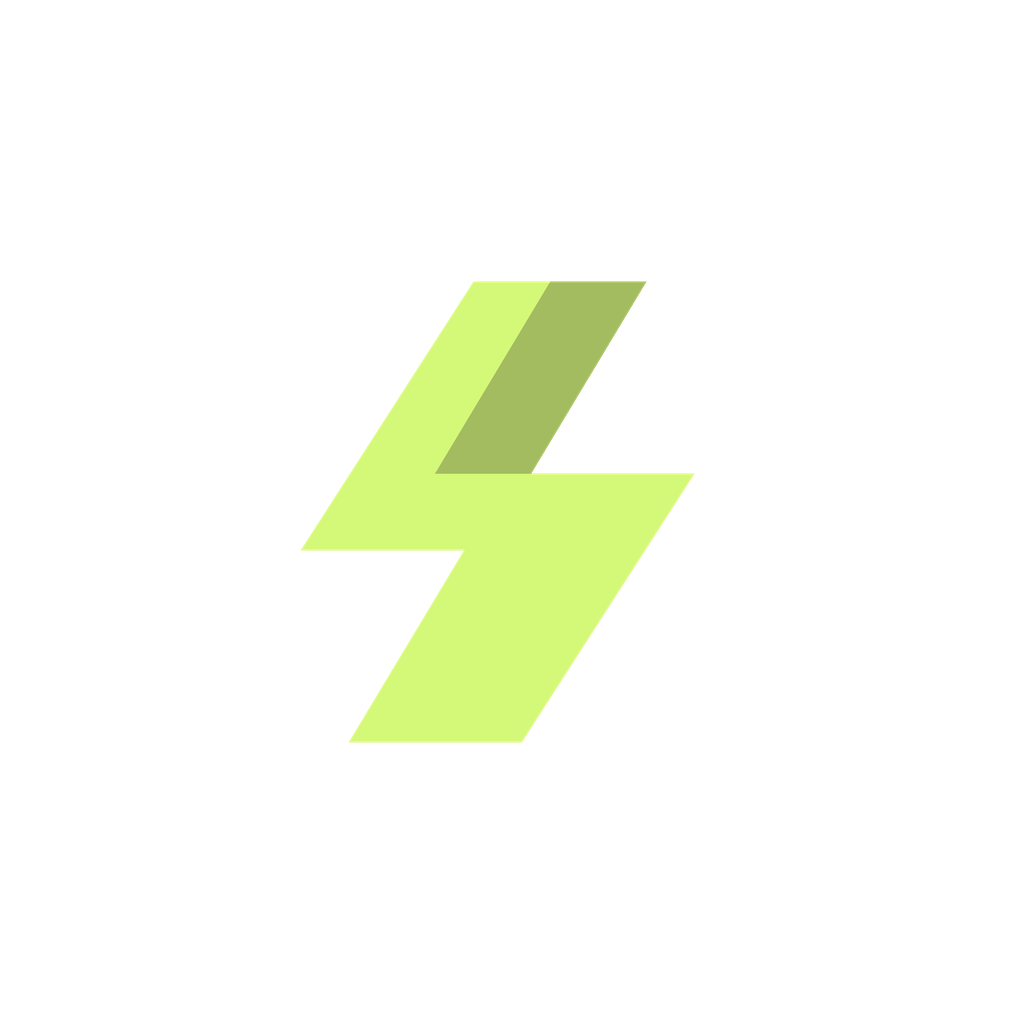
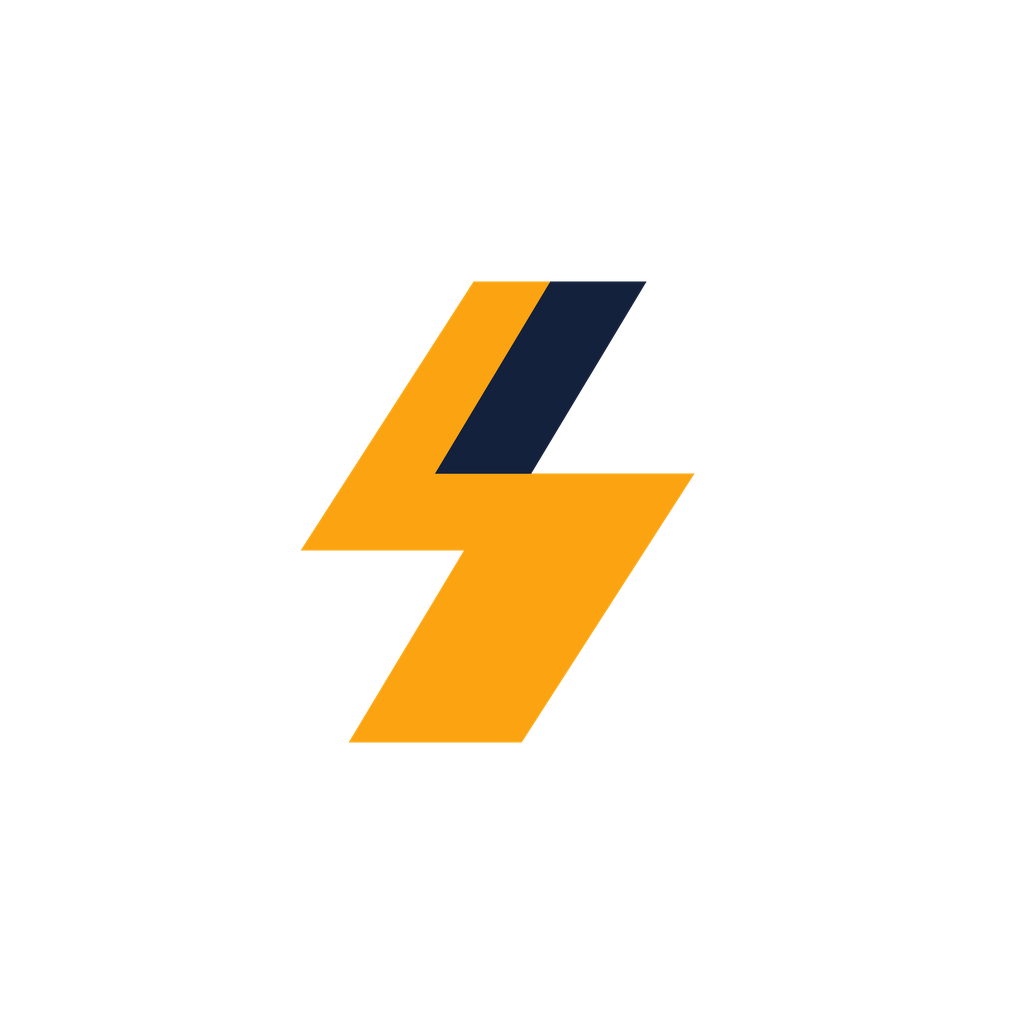
Apply Gold Night identity and add persistent AI coach access

Changed region(s): [[0.2812, 0.25, 0.6875, 0.75]]

diff --git a/src/app/(tabs)/index.tsx b/src/app/(tabs)/index.tsx
@@ -38,37 +38,37 @@ export default function Today() {
   const todayPlan = auth.plan?.days[(now.getDay() + 6) % 7];
   const firstName = store.profile.name.trim().split(' ')[0];
   const recent = [
-    ...meals.map((item) => ({ id: item.id, time: item.time, title: item.name, detail: `${Math.round(item.calories)} kcal · ${Math.round(item.protein)} g protein`, icon: 'meal' as const, color: theme.orange })),
+    ...meals.map((item) => ({ id: item.id, time: item.time, title: item.name, detail: `${Math.round(item.calories)} kcal · ${Math.round(item.protein)} g protein`, icon: 'meal' as const, color: theme.nutrition })),
     ...workouts.map((item) => ({ id: item.id, time: item.time, title: item.name, detail: `${item.minutes} min training`, icon: 'workout' as const, color: theme.accent })),
   ].sort((a, b) => (b.time || '').localeCompare(a.time || '')).slice(0, 3);
 
   return <Page>
     <Title eyebrow={now.toLocaleDateString(undefined, { weekday: 'long', month: 'short', day: 'numeric' })} subtitle="Small steps. Stronger every day.">{firstName ? `Let's move, ${firstName}.` : 'Make today count.'}</Title>
     <Card style={{ backgroundColor: theme.hero, borderColor: theme.heroLine, padding: 22 }}>
-      <LinearGradient pointerEvents="none" colors={['rgba(212,248,120,0.09)', 'transparent']} start={{ x: 1, y: 0 }} end={{ x: 0, y: 1 }} style={StyleSheet.absoluteFill} />
+      <LinearGradient pointerEvents="none" colors={[theme.heroGlow, 'transparent']} start={{ x: 1, y: 0 }} end={{ x: 0, y: 1 }} style={StyleSheet.absoluteFill} />
       <Row><Text style={[ui.eyebrow, { flex: 1 }]}>TODAY’S FOCUS</Text><View style={s.pill}><Text style={s.pillText}>{todayPlan?.isRest ? 'RECOVERY' : 'TRAINING'}</Text></View></Row>
       <Row><View style={{ flex: 1, gap: 8 }}><Text style={s.workoutTitle}>{todayPlan?.title || 'Find your next move'}</Text><Text style={ui.muted}>{todayPlan ? `${todayPlan.minutes} min · ${todayPlan.focus}` : 'A personal plan, built around you.'}</Text></View><View style={s.workoutIcon}><Icon name="workout" color={theme.accent} size={34} /></View></Row>
       <MotionPressable onPress={() => router.push('/(tabs)/plan')} style={s.primary}><Row><Text style={s.primaryText}>{todayPlan ? 'View today’s session' : 'Explore your plan'}</Text><Icon name="arrow" color={theme.ink} size={18} /></Row></MotionPressable>
     </Card>
 
     <View style={{ gap: 12 }}><Row><Text style={s.section}>Quick check-in</Text><Text style={[ui.muted, { fontSize: 11 }]}>MAKE IT A HABIT</Text></Row>
-      <View style={{ flexDirection: 'row', gap: 9 }}>{([{ mode: 'meal', label: 'Meal', icon: 'meal', color: theme.orange }, { mode: 'workout', label: 'Workout', icon: 'workout', color: theme.accent }, { mode: 'water', label: 'Water', icon: 'water', color: theme.blue }, { mode: 'weight', label: 'Weight', icon: 'weight', color: theme.purple }] as const).map((item) => <MotionPressable key={item.mode} onPress={() => log(item.mode)} style={{ flex: 1, minHeight: 78, borderRadius: 18, backgroundColor: theme.card, borderWidth: 1, borderColor: theme.line }}><Icon name={item.icon} color={item.color} size={22} /><Text style={{ color: theme.text, fontSize: 11, fontWeight: '700', marginTop: 9 }}>{item.label}</Text></MotionPressable>)}</View>
+      <View style={{ flexDirection: 'row', flexWrap: 'wrap', gap: 8 }}>{([{ mode: 'meal', label: 'Meal', icon: 'meal', color: theme.nutrition }, { mode: 'workout', label: 'Workout', icon: 'workout', color: theme.accent }, { mode: 'water', label: 'Water', icon: 'water', color: theme.hydration }, { mode: 'weight', label: 'Weight', icon: 'weight', color: theme.secondary }, { mode: 'steps', label: 'Steps', icon: 'steps', color: theme.accent }] as const).map((item) => <MotionPressable key={item.mode} onPress={() => log(item.mode)} style={{ flex: 1, minWidth: 48, minHeight: 78, borderRadius: 18, backgroundColor: theme.card, borderWidth: 1, borderColor: theme.line }}><Icon name={item.icon} color={item.color} size={22} /><Text style={{ color: theme.text, fontSize: 11, fontWeight: '700', marginTop: 9 }}>{item.label}</Text></MotionPressable>)}</View>
     </View>
 
     <Row><Text style={s.section}>Daily balance</Text><Text style={[ui.muted, { fontSize: 11 }]}>{meals.length} meals logged</Text></Row>
     <Card><Row><View style={{ flex: 1, gap: 5 }}><Text style={ui.label}>ENERGY INTAKE</Text><Text style={{ color: theme.text, fontSize: 34, fontFamily: theme.font, letterSpacing: -2 }}>{Math.round(calories).toLocaleString()}</Text><Text style={{ color: theme.muted, fontSize: 12 }}>kcal{targets ? ` / ${targets.calories.toLocaleString()} guide` : ' today'}</Text><Text style={{ color: theme.accent, fontSize: 12, lineHeight: 18, marginTop: 6 }}>{targets ? calories > targets.calories ? `${Math.round(calories - targets.calories).toLocaleString()} kcal above guide` : `${Math.round(targets.calories - calories).toLocaleString()} kcal to guide` : 'Personal guide not set'}</Text></View><Orbit size={112} value={calories} max={targets?.calories || 0} /></Row><Text style={[ui.muted, { fontSize: 11 }]}>An intake guide, not a measured energy deficit.</Text></Card>
     <View style={{ flexDirection: 'row', flexWrap: 'wrap', gap: 12 }}>
-      <Metric icon="protein" label="Protein" value={`${Math.round(protein)} g`} guide={targets ? `of ${targets.protein} g guide` : 'No personal guide'} fraction={targets ? protein / targets.protein : 0} color={theme.orange} onPress={() => log('meal')} />
-      <Metric icon="water" label="Hydration" value={`${(water / 1000).toFixed(1)} L`} guide={targets ? `of ${(targets.water / 1000).toFixed(1)} L drinks guide` : 'No personal guide'} fraction={targets ? water / targets.water : 0} color={theme.blue} onPress={() => log('water')} />
-      <Metric icon="steps" label="Steps" value={steps.toLocaleString()} guide={auth.plan?.stepsTarget ? `of ${auth.plan.stepsTarget.toLocaleString()} daily guide` : 'Manually logged'} fraction={auth.plan?.stepsTarget ? steps / auth.plan.stepsTarget : 0} color={theme.purple} onPress={() => log('steps')} />
+      <Metric icon="protein" label="Protein" value={`${Math.round(protein)} g`} guide={targets ? `of ${targets.protein} g guide` : 'No personal guide'} fraction={targets ? protein / targets.protein : 0} color={theme.nutrition} onPress={() => log('meal')} />
+      <Metric icon="water" label="Hydration" value={`${(water / 1000).toFixed(1)} L`} guide={targets ? `of ${(targets.water / 1000).toFixed(1)} L drinks guide` : 'No personal guide'} fraction={targets ? water / targets.water : 0} color={theme.hydration} onPress={() => log('water')} />
+      <Metric icon="steps" label="Steps" value={steps.toLocaleString()} guide={auth.plan?.stepsTarget ? `of ${auth.plan.stepsTarget.toLocaleString()} daily guide` : 'Manually logged'} fraction={auth.plan?.stepsTarget ? steps / auth.plan.stepsTarget : 0} color={theme.secondary} onPress={() => log('steps')} />
       <Metric icon="workout" label="Training" value={`${minutes} min`} guide={`${workouts.length} sessions logged today`} fraction={todayPlan?.minutes ? minutes / todayPlan.minutes : 0} color={theme.accent} onPress={() => log('workout')} />
     </View>
-    <MotionPressable onPress={() => store.addWater(date, 250)} style={{ minHeight: 44, borderRadius: 14, borderWidth: 1, borderColor: theme.line }}><Row><Icon name="water" color={theme.blue} size={17} /><Text style={{ color: theme.blue, fontSize: 13, fontWeight: '700' }}>Quick add · 250 ml water</Text></Row></MotionPressable>
+    <MotionPressable onPress={() => store.addWater(date, 250)} style={{ minHeight: 44, borderRadius: 14, borderWidth: 1, borderColor: theme.line }}><Row><Icon name="water" color={theme.hydration} size={17} /><Text style={{ color: theme.hydration, fontSize: 13, fontWeight: '700' }}>Quick add · 250 ml water</Text></Row></MotionPressable>
 
-    <MotionPressable onPress={() => router.push('/chat')} style={{ width: '100%' }}><Card style={{ width: '100%' }}><Row><View style={s.coachIcon}><Icon name="sparkles" color={theme.purple} size={23} /></View><View style={{ flex: 1, gap: 4 }}><Text style={{ color: theme.text, fontSize: 17, fontFamily: theme.font }}>A little guidance goes far.</Text><Text style={ui.muted}>Talk meals, training & goals with your AI coach.</Text></View><Icon name="arrow" color={theme.muted} size={17} /></Row></Card></MotionPressable>
+    <MotionPressable onPress={() => router.push('/chat')} style={{ width: '100%' }}><Card style={{ width: '100%' }}><Row><View style={s.coachIcon}><Icon name="sparkles" color={theme.secondary} size={23} /></View><View style={{ flex: 1, gap: 4 }}><Text style={{ color: theme.text, fontSize: 17, fontFamily: theme.font }}>A little guidance goes far.</Text><Text style={ui.muted}>Talk meals, training & goals with your AI coach.</Text></View><Icon name="arrow" color={theme.muted} size={17} /></Row></Card></MotionPressable>
     <Row><Text style={s.section}>Today’s activity</Text><Pressable accessibilityRole="button" onPress={() => router.push({ pathname: '/(tabs)/history', params: { view: 'history' } })} style={{ minHeight: 44, justifyContent: 'center' }}><Text style={{ color: theme.accent, fontSize: 12, fontWeight: '700' }}>See history ↗</Text></Pressable></Row>
     <Card>{recent.length ? recent.map((item) => <Row key={item.id}><View style={{ width: 38, height: 38, borderRadius: 12, backgroundColor: `${item.color}16`, alignItems: 'center', justifyContent: 'center' }}><Icon name={item.icon} color={item.color} size={18} /></View><View style={{ flex: 1, gap: 3 }}><Text style={{ color: theme.text, fontSize: 14, fontWeight: '700' }}>{item.title}</Text><Text style={[ui.muted, { fontSize: 11 }]}>{item.detail}</Text></View></Row>) : <><Text style={{ color: theme.text, fontSize: 15, fontWeight: '700' }}>A fresh page for today.</Text><Text style={ui.muted}>Your meals and workouts will show up here as you log them. Start with a quick check-in above.</Text></>}</Card>
-    {meals.length > 0 && <Card><Text style={s.section}>Macro breakdown</Text>{([['Carbs', 'carbs', theme.blue], ['Fat', 'fat', theme.purple], ['Fibre', 'fibre', theme.accent], ['Sugar', 'sugar', theme.orange]] as const).map(([label, key, color]) => <Row key={key}><View style={{ width: 7, height: 7, borderRadius: 4, backgroundColor: color }} /><Text style={[ui.muted, { flex: 1 }]}>{label}</Text><Text style={{ color: theme.text, fontWeight: '700' }}>{Math.round(sum(meals, key))} g</Text></Row>)}</Card>}
+    {meals.length > 0 && <Card><Text style={s.section}>Macro breakdown</Text>{([['Carbs', 'carbs', theme.hydration], ['Fat', 'fat', theme.secondary], ['Fibre', 'fibre', theme.accent], ['Sugar', 'sugar', theme.nutrition]] as const).map(([label, key, color]) => <Row key={key}><View style={{ width: 7, height: 7, borderRadius: 4, backgroundColor: color }} /><Text style={[ui.muted, { flex: 1 }]}>{label}</Text><Text style={{ color: theme.text, fontWeight: '700' }}>{Math.round(sum(meals, key))} g</Text></Row>)}</Card>}
   </Page>;
 }
 const s = StyleSheet.create({
@@ -79,5 +79,5 @@ const s = StyleSheet.create({
   workoutIcon: { width: 70, height: 70, borderRadius: 22, backgroundColor: theme.accentSoft, alignItems: 'center', justifyContent: 'center', transform: [{ rotate: '-12deg' }] },
   primary: { minHeight: 52, borderRadius: 16, backgroundColor: theme.accent, marginTop: 6 },
   primaryText: { color: theme.ink, fontFamily: theme.font, fontSize: 14 },
-  coachIcon: { width: 44, height: 44, borderRadius: 15, backgroundColor: 'rgba(183,164,247,0.10)', alignItems: 'center', justifyContent: 'center' },
+  coachIcon: { width: 44, height: 44, borderRadius: 15, backgroundColor: theme.accentSoft, alignItems: 'center', justifyContent: 'center' },
 });

diff --git a/src/app/(tabs)/plan.tsx b/src/app/(tabs)/plan.tsx
@@ -31,7 +31,7 @@ export default function Plan() {
       </View>
       {plan.days.map((day, index) => <Card key={day.day} style={index === todayIndex ? { borderColor: theme.heroLine } : undefined}>
         <Pressable accessibilityRole="button" accessibilityState={{ expanded: openDay === index }} onPress={() => setOpenDay(openDay === index ? null : index)} style={{ minHeight: 54 }}><Row>
-          <View style={{ width: 43, height: 43, borderRadius: 14, backgroundColor: day.isRest ? 'rgba(128,201,245,0.10)' : theme.accentSoft, alignItems: 'center', justifyContent: 'center' }}><Icon name={day.isRest ? 'water' : 'workout'} color={day.isRest ? theme.blue : theme.accent} size={21} /></View>
+          <View style={{ width: 43, height: 43, borderRadius: 14, backgroundColor: day.isRest ? theme.cardAlt : theme.accentSoft, alignItems: 'center', justifyContent: 'center' }}><Icon name={day.isRest ? 'water' : 'workout'} color={day.isRest ? theme.hydration : theme.accent} size={21} /></View>
           <View style={{ flex: 1, gap: 4 }}><Text style={{ color: index === todayIndex ? theme.accent : theme.muted, fontSize: 10, fontFamily: theme.font, letterSpacing: .8 }}>{day.day.toUpperCase()}{index === todayIndex ? ' / TODAY' : ''} · {day.isRest ? 'RECOVERY' : `${day.minutes} MIN`}</Text><Text style={{ color: theme.text, fontSize: 17, fontFamily: theme.font }}>{day.title}</Text></View><Text style={{ color: theme.muted, fontSize: 22 }}>{openDay === index ? '−' : '+'}</Text>
         </Row></Pressable>
         {openDay === index ? <View style={{ gap: 13, paddingTop: 12, borderTopWidth: 1, borderColor: theme.line }}><Text style={ui.muted}>{day.focus}</Text>{day.activities.map((activity, activityIndex) => <Row key={`${day.day}-${activityIndex}`}><Text style={{ color: theme.accent, fontSize: 11, fontFamily: theme.font, width: 22 }}>{String(activityIndex + 1).padStart(2, '0')}</Text><Text style={[ui.muted, { flex: 1, color: theme.text }]}>{activity}</Text></Row>)}<Button secondary onPress={() => router.push({ pathname: '/(tabs)/log', params: { mode: 'workout', entry: String(Date.now()) } })}>Log a completed session</Button></View> : null}
@@ -40,7 +40,7 @@ export default function Plan() {
         {plan.calorieTarget ? <><View style={{ flexDirection: 'row', flexWrap: 'wrap', gap: 10 }}>{[[plan.calorieTarget.toLocaleString(), 'kcal intake'], [plan.proteinGrams, 'g protein'], [(plan.waterMl / 1000).toFixed(1), 'L drinks'], [plan.stepsTarget.toLocaleString(), 'steps']].map(([value, label]) => <View key={label} style={{ width: '47%', flexGrow: 1, padding: 14, borderRadius: 16, backgroundColor: theme.cardAlt }}><Text style={{ color: theme.text, fontSize: 23, fontFamily: theme.font }}>{value}</Text><Text style={ui.muted}>{label}</Text></View>)}</View><Text style={ui.muted}>Estimated maintenance {plan.maintenanceCalories.toLocaleString()} kcal · planned deficit {plan.deficitCalories.toLocaleString()} kcal</Text></> : <Text style={ui.muted}>Personal calorie and drink goals are paused for this profile. Steps starting point: {plan.stepsTarget.toLocaleString()} per day.</Text>}
       </Disclosure>
       <Disclosure title="The thinking behind your plan" subtitle="Recommendations & adjustments"><Text style={ui.muted}>{plan.guidanceNote}</Text><Text style={ui.muted}>{plan.requestedDays} training days requested · {plan.recommendedDays} recommended</Text><Text style={ui.muted}>{plan.suggestions}</Text></Disclosure>
-      <Card><Row><Icon name="sparkles" color={theme.purple} /><Text style={{ color: theme.text, fontSize: 18, fontFamily: theme.font }}>Make it work for you.</Text></Row><Text style={ui.muted}>Schedule changed? Talk it through with your coach, then review and approve a revised plan.</Text><Button secondary onPress={() => router.push('/chat')}>Talk to your AI coach</Button></Card>
+      <Card><Row><Icon name="sparkles" color={theme.secondary} /><Text style={{ color: theme.text, fontSize: 18, fontFamily: theme.font }}>Make it work for you.</Text></Row><Text style={ui.muted}>Schedule changed? Talk it through with your coach, then review and approve a revised plan.</Text><Button secondary onPress={() => router.push('/chat')}>Talk to your AI coach</Button></Card>
     </> : <Card><Icon name="plan" color={theme.accent} size={32} /><Text style={{ color: theme.text, fontSize: 20, fontFamily: theme.font }}>A plan with your name on it.</Text><Text style={ui.muted}>Generate a weekly plan from your saved profile and training preferences.</Text>{error ? <Text accessibilityRole="alert" style={{ color: theme.red }}>{error}</Text> : null}<Button disabled={generating} onPress={() => { setGenerating(true); setError(''); auth.revisePlan([{ role: 'user', content: 'Create a practical weekly plan from my saved profile and preferences.' }]).catch((cause) => setError(cause instanceof Error ? cause.message : 'Could not generate a plan.')).finally(() => setGenerating(false)); }}>{generating ? 'Building your plan…' : 'Generate my plan'}</Button></Card>}
   </Page>;
 }

diff --git a/src/app/(tabs)/_layout.tsx b/src/app/(tabs)/_layout.tsx
@@ -1,6 +1,6 @@
-import { Tabs } from 'expo-router';
+import { router, Tabs } from 'expo-router';
 import { useEffect, useState } from 'react';
-import { Animated, ColorValue } from 'react-native';
+import { Animated, ColorValue, Keyboard, Pressable, Text, View } from 'react-native';
 import { useSafeAreaInsets } from 'react-native-safe-area-context';
 import { Icon } from '@/components/UI';
 import { theme } from '@/lib/theme';
@@ -22,7 +22,13 @@ function TabIcon({ name, color, focused }: { name: 'home' | 'log' | 'plan' | 'pr
 export default function TabLayout() {
   const insets = useSafeAreaInsets();
   const reduced = useReduceMotion();
-  return <Tabs screenOptions={{
+  const [keyboardOpen, setKeyboardOpen] = useState(false);
+  useEffect(() => {
+    const show = Keyboard.addListener('keyboardDidShow', () => setKeyboardOpen(true));
+    const hide = Keyboard.addListener('keyboardDidHide', () => setKeyboardOpen(false));
+    return () => { show.remove(); hide.remove(); };
+  }, []);
+  return <View style={{ flex: 1 }}><Tabs screenOptions={{
     headerShown: false,
     animation: reduced === false ? 'shift' : 'none',
     transitionSpec: { animation: 'timing', config: { duration: 230 } },
@@ -33,7 +39,7 @@ export default function TabLayout() {
     tabBarStyle: {
       position: 'absolute', left: 12, right: 12, bottom: Math.max(insets.bottom, 8),
       height: 72, paddingTop: 6, paddingBottom: 5, borderRadius: 26,
-      backgroundColor: 'rgba(22,25,29,0.98)', borderWidth: 1, borderTopWidth: 1,
+      backgroundColor: theme.navigation, borderWidth: 1, borderTopWidth: 1,
       borderColor: theme.line, elevation: 12,
       shadowColor: '#000', shadowOpacity: 0.28, shadowRadius: 18, shadowOffset: { width: 0, height: 8 },
     },
@@ -45,5 +51,10 @@ export default function TabLayout() {
     <Tabs.Screen name="log" options={{ title: 'Log', tabBarIcon: ({ color, focused }) => <TabIcon name="log" color={color} focused={focused} /> }} />
     <Tabs.Screen name="history" options={{ title: 'Progress', tabBarIcon: ({ color, focused }) => <TabIcon name="progress" color={color} focused={focused} /> }} />
     <Tabs.Screen name="profile" options={{ title: 'Profile', tabBarIcon: ({ color, focused }) => <TabIcon name="you" color={color} focused={focused} /> }} />
-  </Tabs>;
+  </Tabs>
+    {!keyboardOpen ? <Pressable accessibilityRole="button" accessibilityLabel="Open AI coach chat" accessibilityHint="Talk about your training, nutrition, and goals" onPress={() => router.navigate('/chat')}
+      style={({ pressed }) => ({ position: 'absolute', right: 22, bottom: Math.max(insets.bottom, 8) + 88, minHeight: 48, paddingHorizontal: 18, paddingVertical: 12, borderRadius: 24, flexDirection: 'row', alignItems: 'center', gap: 9, backgroundColor: theme.accent, borderWidth: 1, borderColor: theme.heroLine, elevation: 8, shadowColor: '#000', shadowOpacity: .3, shadowRadius: 12, shadowOffset: { width: 0, height: 4 }, opacity: pressed ? .8 : 1 })}>
+      <Icon name="chat" color={theme.ink} size={21} /><Text style={{ color: theme.ink, fontFamily: theme.font, fontSize: 14 }}>AI Coach</Text>
+    </Pressable> : null}
+  </View>;
 }

diff --git a/src/app/(tabs)/history.tsx b/src/app/(tabs)/history.tsx
@@ -59,12 +59,12 @@ function HistoryContent({ initialDate, initialView }: { initialDate: string; ini
     <View style={{ gap: 8 }}>
       <Text style={{ color: theme.text, fontSize: 18, fontFamily: theme.font }}>Recent days</Text>
       <ScrollView horizontal showsHorizontalScrollIndicator={false} contentContainerStyle={{ gap: 8, paddingBottom: 4 }}>
-        {dates.slice(0, 14).map((date) => <Pressable key={date} onPress={() => setSelected(date)} accessibilityRole="button" accessibilityState={{ selected: date === selected }} style={{ minHeight: 44, justifyContent: 'center', borderRadius: 12, paddingHorizontal: 12, paddingVertical: 10, borderWidth: 1, borderColor: date === selected ? theme.accent : theme.line, backgroundColor: date === selected ? 'rgba(212,248,120,0.16)' : theme.card }}><Text style={{ color: date === selected ? theme.accent : theme.text, fontWeight: '700' }}>{date === today() ? 'Today' : new Date(`${date}T12:00:00`).toLocaleDateString(undefined, { month: 'short', day: 'numeric' })}</Text></Pressable>)}
+        {dates.slice(0, 14).map((date) => <Pressable key={date} onPress={() => setSelected(date)} accessibilityRole="button" accessibilityState={{ selected: date === selected }} style={{ minHeight: 44, justifyContent: 'center', borderRadius: 12, paddingHorizontal: 12, paddingVertical: 10, borderWidth: 1, borderColor: date === selected ? theme.accent : theme.line, backgroundColor: date === selected ? 'rgba(252,163,17,0.16)' : theme.card }}><Text style={{ color: date === selected ? theme.accent : theme.text, fontWeight: '700' }}>{date === today() ? 'Today' : new Date(`${date}T12:00:00`).toLocaleDateString(undefined, { month: 'short', day: 'numeric' })}</Text></Pressable>)}
       </ScrollView>
     </View>
     <Card><Text style={{ color: theme.text, fontFamily: theme.font }}>Jump to any day</Text><DaySelector value={selected} onChange={setSelected} /><Button onPress={() => router.push({ pathname: '/(tabs)/log', params: { date: selected, entry: String(Date.now()) } })}>Add an entry for {selected}</Button></Card>
     <Text style={{ color: theme.text, fontSize: 21, fontFamily: theme.font }}>{displayDate(selected)}</Text>
-    <Card style={{ backgroundColor: theme.hero, borderColor: 'rgba(212,248,120,0.3)' }}><Text style={{ color: theme.accent, fontSize: 11, letterSpacing: 1, fontFamily: theme.font }}>DAY SUMMARY</Text>
+    <Card style={{ backgroundColor: theme.hero, borderColor: 'rgba(252,163,17,0.3)' }}><Text style={{ color: theme.accent, fontSize: 11, letterSpacing: 1, fontFamily: theme.font }}>DAY SUMMARY</Text>
       <Text style={{ color: theme.text, fontSize: 23, fontFamily: theme.font }}>{number(total('calories'))} kcal consumed</Text>
       <Text style={ui.muted}>{targets ? `${number(Math.abs(targets.calories - total('calories')))} kcal ${total('calories') <= targets.calories ? 'below' : 'above'} your ${number(targets.calories)} kcal guide` : 'No calorie guide available for this day.'}</Text>
       <Text style={ui.muted}>Protein {number(total('protein'))} g · Carbs {number(total('carbs'))} g · Fat {number(total('fat'))} g</Text>

diff --git a/src/app/(tabs)/log.tsx b/src/app/(tabs)/log.tsx
@@ -111,11 +111,11 @@ export default function Log() {
         <View style={{ flexDirection: 'row', flexWrap: 'wrap', gap: 7 }}>
           {(['breakfast', 'lunch', 'dinner', 'snack'] as const).map((type) =>
             <MotionPressable key={type} onPress={() => { setMealType(type); setEstimate(null); }} accessibilityState={{ selected: mealType === type }}
-              style={{ paddingHorizontal: 12, paddingVertical: 9, borderRadius: 11, backgroundColor: mealType === type ? 'rgba(212,248,120,0.17)' : theme.cardAlt, borderWidth: 1, borderColor: mealType === type ? 'rgba(212,248,120,0.55)' : theme.line }}>
+              style={{ paddingHorizontal: 12, paddingVertical: 9, borderRadius: 11, backgroundColor: mealType === type ? 'rgba(252,163,17,0.17)' : theme.cardAlt, borderWidth: 1, borderColor: mealType === type ? 'rgba(252,163,17,0.55)' : theme.line }}>
               <Text style={{ color: mealType === type ? theme.accent : theme.text, fontFamily: theme.font, fontSize: 11, textTransform: 'capitalize' }}>{type}</Text>
             </MotionPressable>)}
         </View>
-        {existing && <Text style={{ color: theme.orange, fontSize: 12 }}>Saving another {mealType} for {date} will replace the current entry. Snacks can be added more than once.</Text>}
+        {existing && <Text style={{ color: theme.nutrition, fontSize: 12 }}>Saving another {mealType} for {date} will replace the current entry. Snacks can be added more than once.</Text>}
         <Label>TIME</Label><MealTimePicker value={mealTime} onChange={setMealTime} />
         <Label>FOOD AND PORTION</Label>
         <Input value={description} onChangeText={(value) => { setDescription(value); setEstimate(null); }} multiline placeholder="e.g. 2 chapatis (80 g), dal (150 g), paneer (100 g), oil (1 tsp)" style={{ minHeight: 94, textAlignVertical: 'top' }} />
@@ -126,7 +126,7 @@ export default function Log() {
       </Card>
       <Button onPress={analyze} disabled={estimating}>{estimating ? 'Estimating…' : estimate ? 'Estimate again' : 'Estimate nutrition with AI'}</Button>
       {error ? <Reveal><Card><Text style={{ color: theme.red }}>{error}</Text></Card></Reveal> : null}
-      {estimate && <Reveal><Card style={{ backgroundColor: theme.hero, borderColor: 'rgba(212,248,120,0.3)' }}>
+      {estimate && <Reveal><Card style={{ backgroundColor: theme.hero, borderColor: 'rgba(252,163,17,0.3)' }}>
         <Row><Icon name="sparkles" color={theme.accent} size={19} /><Text style={{ color: theme.accent, fontFamily: theme.font, fontSize: 10, letterSpacing: 1 }}>AI ESTIMATE · REVIEW BEFORE SAVING</Text></Row>
         <Text style={{ color: theme.text, fontSize: 20, fontFamily: theme.font }}>{estimate.name}</Text>
         <Text style={{ color: theme.text, fontSize: 27, fontFamily: theme.font }}>~{Math.round(estimate.calories)} kcal</Text>

diff --git a/components/WelcomeVisual.tsx b/components/WelcomeVisual.tsx
@@ -11,12 +11,12 @@ export function WelcomeVisual() {
       <Circle cx={170} cy={100} r={42} fill={theme.accentSoft} />
       <Path d="M80 100A90 90 0 0 1 228 31" stroke={theme.accent} strokeWidth={2} strokeLinecap="round" fill="none" />
       <Circle cx={228} cy={31} r={4} fill={theme.accent} />
-      <Circle cx={109} cy={166} r={4} fill={theme.blue} />
+      <Circle cx={109} cy={166} r={4} fill={theme.hydration} />
       <Line x1={10} x2={85} y1={100} y2={100} stroke={theme.line} />
       <Line x1={255} x2={330} y1={100} y2={100} stroke={theme.line} />
     </Svg>
     <BrandMark size={57} />
-    <View style={{ position: 'absolute', left: 0, top: 35, borderRadius: 12, padding: 11, backgroundColor: '#1B2022', borderWidth: 1, borderColor: theme.line }}><Text style={{ color: theme.accent, fontSize: 9, fontFamily: theme.font, letterSpacing: 1 }}>TRAIN WITH PURPOSE</Text><Text style={{ color: theme.text, fontSize: 13, fontWeight: '700', marginTop: 4 }}>Your plan. Your pace.</Text></View>
-    <View style={{ position: 'absolute', right: 0, bottom: 26, borderRadius: 12, padding: 11, backgroundColor: '#1B2022', borderWidth: 1, borderColor: theme.line }}><Text style={{ color: theme.blue, fontSize: 9, fontFamily: theme.font, letterSpacing: 1 }}>SEE YOUR PROGRESS</Text><Text style={{ color: theme.text, fontSize: 13, fontWeight: '700', marginTop: 4 }}>Every check-in counts.</Text></View>
+    <View style={{ position: 'absolute', left: 0, top: 35, borderRadius: 12, padding: 11, backgroundColor: theme.surface, borderWidth: 1, borderColor: theme.line }}><Text style={{ color: theme.accent, fontSize: 9, fontFamily: theme.font, letterSpacing: 1 }}>TRAIN WITH PURPOSE</Text><Text style={{ color: theme.text, fontSize: 13, fontWeight: '700', marginTop: 4 }}>Your plan. Your pace.</Text></View>
+    <View style={{ position: 'absolute', right: 0, bottom: 26, borderRadius: 12, padding: 11, backgroundColor: theme.surface, borderWidth: 1, borderColor: theme.line }}><Text style={{ color: theme.hydration, fontSize: 9, fontFamily: theme.font, letterSpacing: 1 }}>SEE YOUR PROGRESS</Text><Text style={{ color: theme.text, fontSize: 13, fontWeight: '700', marginTop: 4 }}>Every check-in counts.</Text></View>
   </View>;
 }

diff --git a/components/ProgressHub.tsx b/components/ProgressHub.tsx
@@ -27,6 +27,6 @@ export default function ProgressHub({ logs, today }: { logs: Logs; today: string
     </Card>
     <Row>{[[sessions, 'Sessions / 7D'], [minutes, 'Minutes / 7D'], [delta === null ? '—' : `${delta > 0 ? '+' : ''}${delta.toFixed(1)}`, 'kg change / 30D']].map(([value, label]) => <Card key={label} style={{ flex: 1, padding: 13, gap: 6 }}><Text style={{ color: theme.text, fontSize: 25, fontFamily: theme.font }}>{value}</Text><Text style={{ color: theme.muted, fontSize: 10, fontWeight: '600', lineHeight: 14 }}>{label}</Text></Card>)}</Row>
     <ProgressChart logs={logs} today={today} />
-    <MotionPressable onPress={() => router.push('/reviews')} style={{ width: '100%' }}><Card style={{ width: '100%' }}><Row><View style={{ width: 44, height: 44, borderRadius: 14, backgroundColor: 'rgba(183,164,247,0.12)', justifyContent: 'center', alignItems: 'center' }}><Icon name="sparkles" color={theme.purple} /></View><View style={{ flex: 1 }}><Text style={{ color: theme.text, fontSize: 17, fontFamily: theme.font }}>Beyond the numbers</Text><Text style={ui.muted}>Open weekly & monthly AI reviews</Text></View><Icon name="arrow" color={theme.muted} size={18} /></Row></Card></MotionPressable>
+    <MotionPressable onPress={() => router.push('/reviews')} style={{ width: '100%' }}><Card style={{ width: '100%' }}><Row><View style={{ width: 44, height: 44, borderRadius: 14, backgroundColor: theme.accentSoft, justifyContent: 'center', alignItems: 'center' }}><Icon name="sparkles" color={theme.secondary} /></View><View style={{ flex: 1 }}><Text style={{ color: theme.text, fontSize: 17, fontFamily: theme.font }}>Beyond the numbers</Text><Text style={ui.muted}>Open weekly & monthly AI reviews</Text></View><Icon name="arrow" color={theme.muted} size={18} /></Row></Card></MotionPressable>
   </>;
 }

diff --git a/components/UI.tsx b/components/UI.tsx
@@ -49,7 +49,7 @@ export function Brand() {
 export function Page({ children }: { children: ReactNode }) {
   const focused = useIsFocused();
   return <SafeAreaView style={s.safe} edges={['top']}>
-    <LinearGradient pointerEvents="none" colors={['rgba(212,248,120,0.055)', 'transparent', 'rgba(128,201,245,0.025)']} style={StyleSheet.absoluteFill} />
+    <LinearGradient pointerEvents="none" colors={[theme.glow, 'transparent', theme.nightGlow]} style={StyleSheet.absoluteFill} />
     <KeyboardAvoidingView style={s.page} behavior={Platform.OS === 'ios' ? 'padding' : Platform.OS === 'android' ? 'height' : undefined}>
       <PageFocusContext.Provider value={focused}>
         <ScrollView style={s.page} contentContainerStyle={s.content} keyboardShouldPersistTaps="handled" keyboardDismissMode="on-drag" showsVerticalScrollIndicator={false}>
@@ -149,7 +149,7 @@ export function Row({ children }: { children: ReactNode }) { return <View style=
 const s = StyleSheet.create({
   safe: { flex: 1, backgroundColor: theme.bg },
   page: { flex: 1 },
-  content: { width: '100%', maxWidth: 680, alignSelf: 'center', paddingHorizontal: 22, paddingTop: 18, paddingBottom: 140, gap: 22 },
+  content: { width: '100%', maxWidth: 680, alignSelf: 'center', paddingHorizontal: 22, paddingTop: 18, paddingBottom: 210, gap: 22 },
   brand: { flexDirection: 'row', alignItems: 'center', gap: 7, marginBottom: 6 },
   brandName: { color: theme.text, fontSize: 20, fontFamily: theme.font, letterSpacing: -1 },
   brandTag: { color: theme.muted, fontSize: 8, fontWeight: '700', letterSpacing: 1.4 },

diff --git a/lib/theme.ts b/lib/theme.ts
@@ -1,18 +1,24 @@
 export const theme = {
   font: 'SpaceGroteskBold',
-  bg: '#0B0D10',
-  card: 'rgba(255,255,255,0.045)',
-  cardAlt: 'rgba(255,255,255,0.035)',
-  line: 'rgba(255,255,255,0.10)',
-  text: '#F4F5F0',
-  muted: '#A0A5AE',
-  accent: '#D4F878',
-  blue: '#80C9F5',
-  orange: '#F5BA86',
-  purple: '#B7A4F7',
+  bg: '#05070C',
+  night: '#14213D',
+  surface: '#202226',
+  navigation: 'rgba(19,21,25,0.97)',
+  card: 'rgba(255,255,255,0.055)',
+  cardAlt: 'rgba(255,255,255,0.075)',
+  line: 'rgba(229,229,229,0.16)',
+  text: '#FFFFFF',
+  muted: '#C4C8D0',
+  accent: '#FCA311',
+  hydration: '#E5E5E5',
+  nutrition: '#FFD079',
+  secondary: '#C4C8D0',
   red: '#FF9696',
-  ink: '#18200D',
-  accentSoft: 'rgba(212,248,120,0.10)',
-  hero: 'rgba(212,248,120,0.065)',
-  heroLine: 'rgba(212,248,120,0.22)',
+  ink: '#05070C',
+  accentSoft: 'rgba(252,163,17,0.12)',
+  hero: 'rgba(252,163,17,0.065)',
+  heroLine: 'rgba(252,163,17,0.40)',
+  glow: 'rgba(252,163,17,0.08)',
+  heroGlow: 'rgba(252,163,17,0.09)',
+  nightGlow: 'rgba(20,33,61,0.28)',
 };

diff --git a/src/app/+html.tsx b/src/app/+html.tsx
@@ -10,7 +10,7 @@ export default function Root({ children }: { children: ReactNode }) {
     <html lang="en">
       <head>
         <meta charSet="utf-8" />
-        <meta name="theme-color" content="#0B0D10" />
+        <meta name="theme-color" content="#05070C" />
         <meta httpEquiv="X-UA-Compatible" content="IE=edge" />
         <meta name="viewport" content="width=device-width, initial-scale=1, shrink-to-fit=no" />
 
@@ -30,6 +30,6 @@ export default function Root({ children }: { children: ReactNode }) {
 }
 
 const responsiveBackground = `
-body { background-color: #0B0D10; color-scheme: dark; }
-:focus-visible { outline: 2px solid #D4F878; outline-offset: 3px; }
+body { background-color: #05070C; color-scheme: dark; }
+:focus-visible { outline: 2px solid #FCA311; outline-offset: 3px; }
 `;

diff --git a/components/ProgressChart.tsx b/components/ProgressChart.tsx
@@ -10,9 +10,9 @@ import { theme } from '@/lib/theme';
 type Metric = ProgressMetric;
 const metrics: { key: Metric; label: string; unit: string; color: string }[] = [
   { key: 'workoutMinutes', label: 'Training', unit: 'min', color: theme.accent },
-  { key: 'steps', label: 'Steps', unit: 'steps', color: theme.purple },
-  { key: 'water', label: 'Water', unit: 'ml', color: theme.blue },
-  { key: 'calories', label: 'Energy', unit: 'kcal', color: theme.orange },
+  { key: 'steps', label: 'Steps', unit: 'steps', color: theme.secondary },
+  { key: 'water', label: 'Water', unit: 'ml', color: theme.hydration },
+  { key: 'calories', label: 'Energy', unit: 'kcal', color: theme.nutrition },
   { key: 'weight', label: 'Weight', unit: 'kg', color: theme.accent },
 ];
 

diff --git a/constants/Colors.ts b/constants/Colors.ts
@@ -1,19 +1,18 @@
-const tintColorLight = '#2f95dc';
-const tintColorDark = '#fff';
+import { theme } from '@/lib/theme';
 
 export default {
   light: {
-    text: '#000',
-    background: '#fff',
-    tint: tintColorLight,
-    tabIconDefault: '#ccc',
-    tabIconSelected: tintColorLight,
+    text: theme.text,
+    background: theme.bg,
+    tint: theme.accent,
+    tabIconDefault: theme.muted,
+    tabIconSelected: theme.accent,
   },
   dark: {
-    text: '#fff',
-    background: '#000',
-    tint: tintColorDark,
-    tabIconDefault: '#ccc',
-    tabIconSelected: tintColorDark,
+    text: theme.text,
+    background: theme.bg,
+    tint: theme.accent,
+    tabIconDefault: theme.muted,
+    tabIconSelected: theme.accent,
   },
 };
